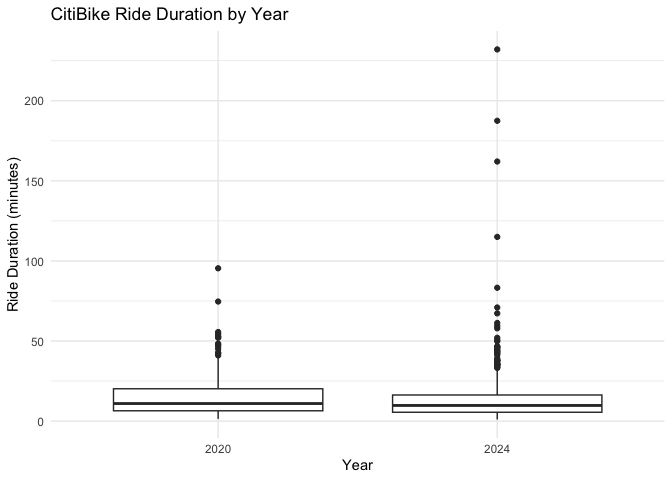
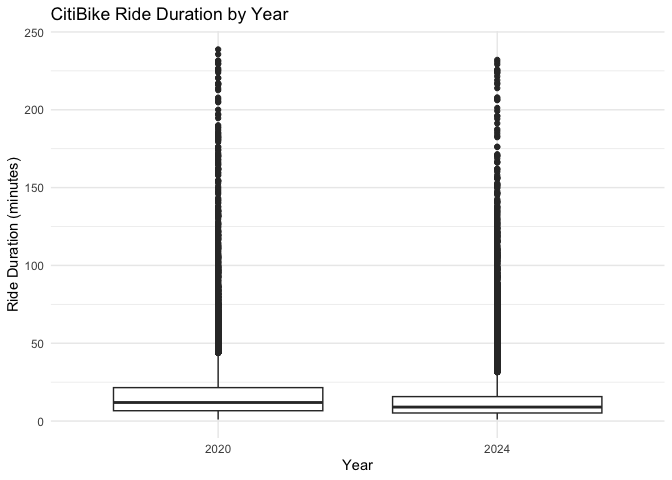
Complete Homework 3

diff --git a/p8105_hw3_vyp2105.md b/p8105_hw3_vyp2105.md
@@ -2143,21 +2143,20 @@ head(citibike_all$duration, 10)
 set.seed(123)
 
 citibike_sample <- citibike_all |>
-  filter(duration < 240) |>
-  slice_sample(prop = 0.01)
+  filter(duration < 240)
 
 # Check the resulting sample
 dim(citibike_sample)
 ```
 
-    ## [1] 994   9
+    ## [1] 99485     9
 
 ``` r
 summary(citibike_sample$duration)
 ```
 
     ##    Min. 1st Qu.  Median    Mean 3rd Qu.    Max. 
-    ##   1.006   5.923  10.231  14.251  17.761 232.051
+    ##   1.002   5.595   9.839  13.930  17.560 238.780
 
 ### Describe the sample
 
@@ -2175,7 +2174,7 @@ citibike_sample |>
     ## # A tibble: 1 × 5
     ##   total_rides median_duration mean_duration min_duration max_duration
     ##         <int>           <dbl>         <dbl>        <dbl>        <dbl>
-    ## 1         994            10.2          14.3         1.01         232.
+    ## 1       99485            9.84          13.9         1.00         239.
 
 ``` r
 citibike_sample |>
@@ -2185,14 +2184,14 @@ citibike_sample |>
     ## # A tibble: 8 × 4
     ##    year month   member_casual     n
     ##   <dbl> <chr>   <chr>         <int>
-    ## 1  2020 January casual           13
-    ## 2  2020 January member          118
-    ## 3  2020 July    casual           51
-    ## 4  2020 July    member          159
-    ## 5  2024 January casual           28
-    ## 6  2024 January member          159
-    ## 7  2024 July    casual          114
-    ## 8  2024 July    member          352
+    ## 1  2020 January casual          984
+    ## 2  2020 January member        11436
+    ## 3  2020 July    casual         5637
+    ## 4  2020 July    member        15411
+    ## 5  2024 January casual         2108
+    ## 6  2024 January member        16753
+    ## 7  2024 July    casual        10894
+    ## 8  2024 July    member        36262
 
 ### Ride counts by year, month, and membership
 
@@ -2207,14 +2206,14 @@ ride_counts
     ## # A tibble: 8 × 4
     ##    year month   member_casual     n
     ##   <dbl> <chr>   <chr>         <int>
-    ## 1  2020 January casual           13
-    ## 2  2020 January member          118
-    ## 3  2020 July    casual           51
-    ## 4  2020 July    member          159
-    ## 5  2024 January casual           28
-    ## 6  2024 January member          159
-    ## 7  2024 July    casual          114
-    ## 8  2024 July    member          352
+    ## 1  2020 January casual          984
+    ## 2  2020 January member        11436
+    ## 3  2020 July    casual         5637
+    ## 4  2020 July    member        15411
+    ## 5  2024 January casual         2108
+    ## 6  2024 January member        16753
+    ## 7  2024 July    casual        10894
+    ## 8  2024 July    member        36262
 
 ### Top five start stations in July 2024
 
